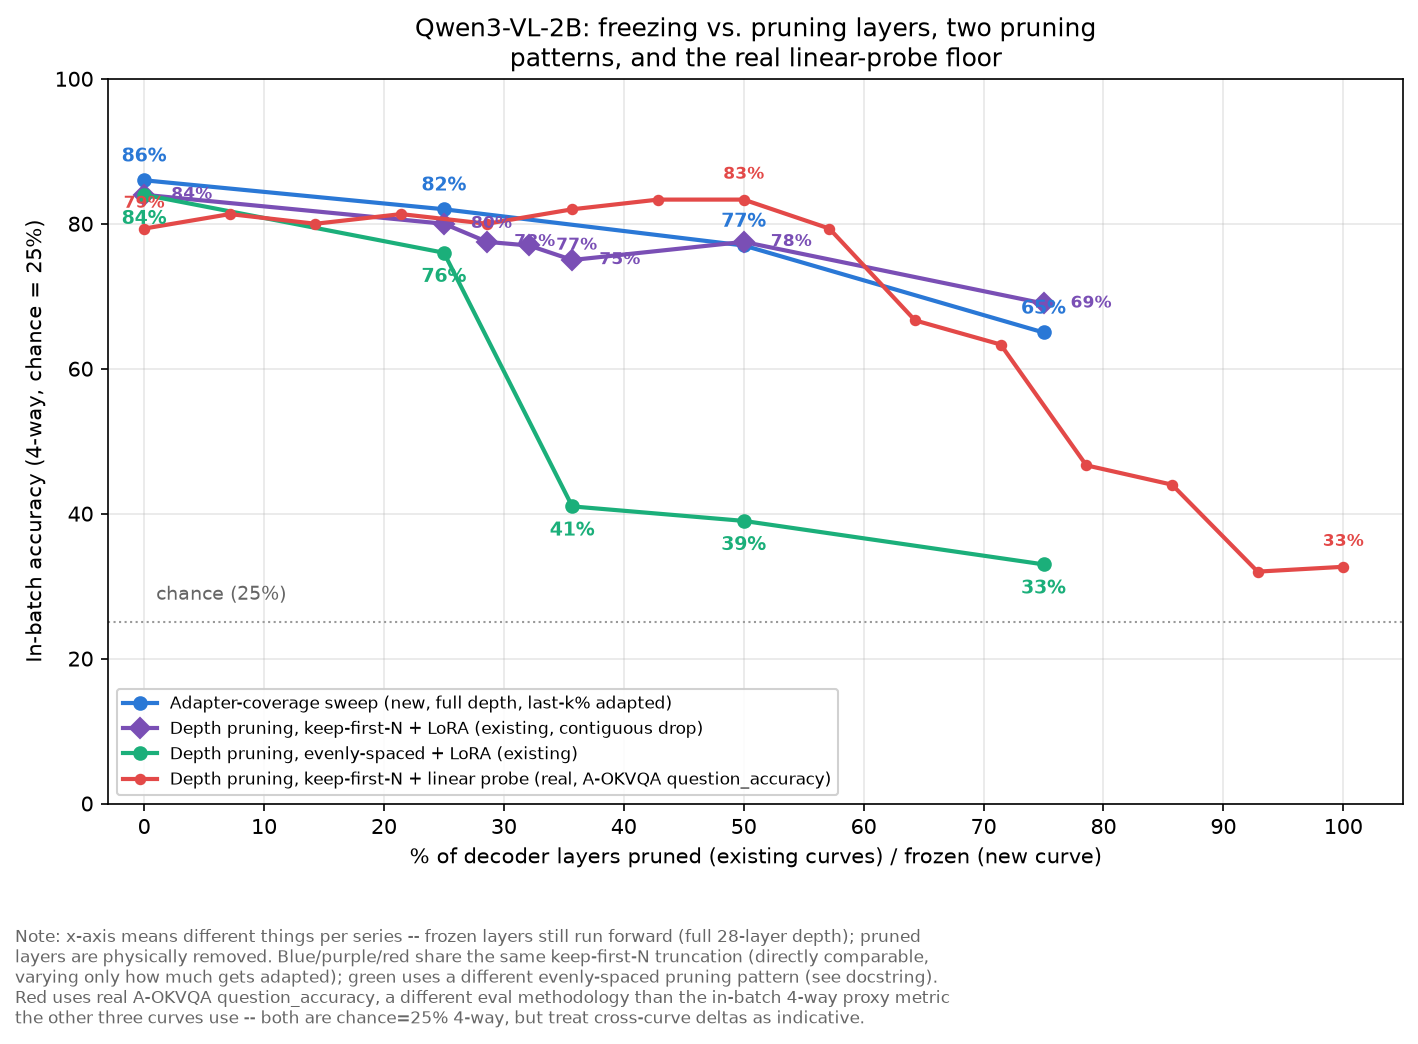
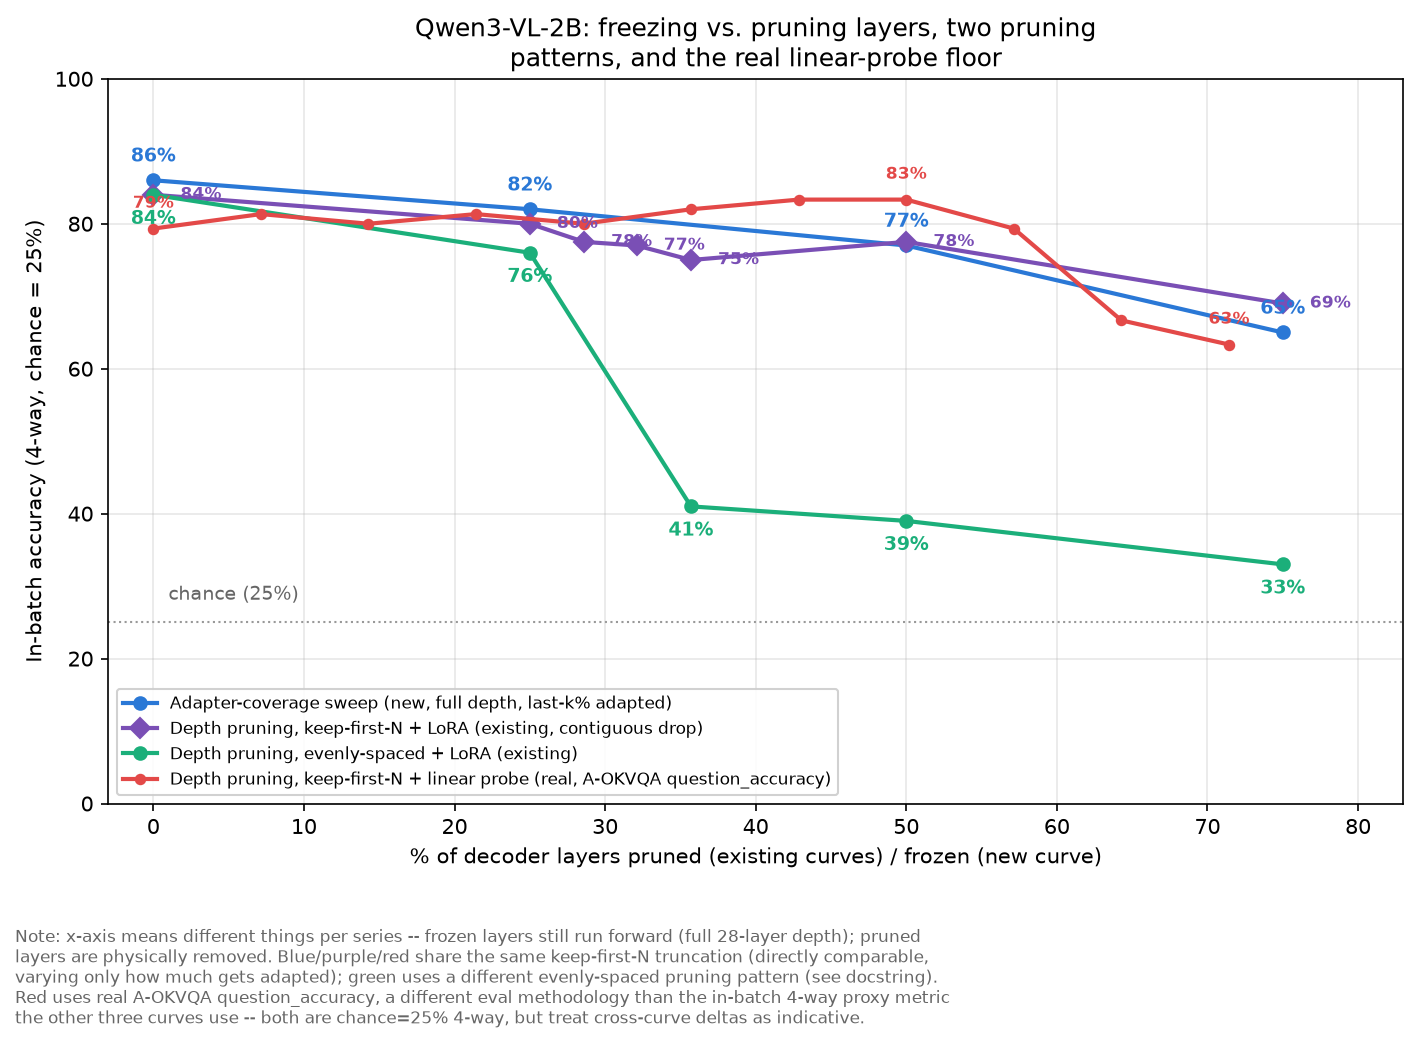
Crop linear-probe curve to 75% pruned, matching the other curves
Drops depths 0/2/4 (85.7-100% pruned) from the plotted range. The real
data keeps declining past this point (down to ~32-45% by 90-100%
pruned) -- see previous commit for the uncropped version if that tail
matters again.

diff --git a/plot_freeze_vs_pruning.py b/plot_freeze_vs_pruning.py
@@ -32,9 +32,12 @@ _probe_depths = [0, 2, 4, 6, 8, 10, 12, 14, 16, 18, 20, 22, 24, 26, 28]
 _probe_accs = [0.32666666666666666, 0.32, 0.44, 0.4666666666666667, 0.6333333333333333,
                0.6666666666666666, 0.7933333333333333, 0.8333333333333334, 0.8333333333333334,
                0.82, 0.8, 0.8133333333333334, 0.8, 0.8133333333333334, 0.7933333333333333]
+# chart is chopped at 75% pruned to match the other curves' range; this drops
+# depths 0/2/4 (85.7-100% pruned), where the real data actually keeps declining
+# further (down to ~32-45%) -- see git history for the uncropped version.
 prune_keepfirst_probe = {
-    "x": [(28 - d) / 28 * 100 for d in _probe_depths],
-    "y": [a * 100 for a in _probe_accs],
+    "x": [(28 - d) / 28 * 100 for d in _probe_depths if (28 - d) / 28 * 100 <= 75],
+    "y": [a * 100 for d, a in zip(_probe_depths, _probe_accs) if (28 - d) / 28 * 100 <= 75],
 }
 
 fig, ax = plt.subplots(figsize=(9.5, 6))
@@ -62,15 +65,15 @@ for x, y in zip(prune_keepfirst_lora["x"], prune_keepfirst_lora["y"]):
 for x, y in zip(prune_evenly_spaced_lora["x"], prune_evenly_spaced_lora["y"]):
     ax.annotate(f"{y:.0f}%", (x, y), textcoords="offset points", xytext=(0, -14),
                 ha="center", fontsize=9, color="#1baf7a", fontweight="bold")
-# label only the endpoints + peak of the dense 15-point probe curve, to avoid clutter
-_probe_label_idxs = [0, _probe_accs.index(max(_probe_accs)), len(_probe_accs) - 1]
+# label only the endpoints + peak of the (cropped) probe curve, to avoid clutter
+_probe_y = prune_keepfirst_probe["y"]
+_probe_label_idxs = [0, _probe_y.index(max(_probe_y)), len(_probe_y) - 1]
 for i in _probe_label_idxs:
     x, y = prune_keepfirst_probe["x"][i], prune_keepfirst_probe["y"][i]
     ax.annotate(f"{y:.0f}%", (x, y), textcoords="offset points", xytext=(0, 10),
                 ha="center", fontsize=8, color="#e34948", fontweight="bold")
 
-ax.set_xlim(-3, 105)
-ax.set_xticks(range(0, 101, 10))
+ax.set_xlim(-3, 83)
 ax.set_ylim(0, 100)
 ax.set_xlabel("% of decoder layers pruned (existing curves) / frozen (new curve)")
 ax.set_ylabel("In-batch accuracy (4-way, chance = 25%)")
